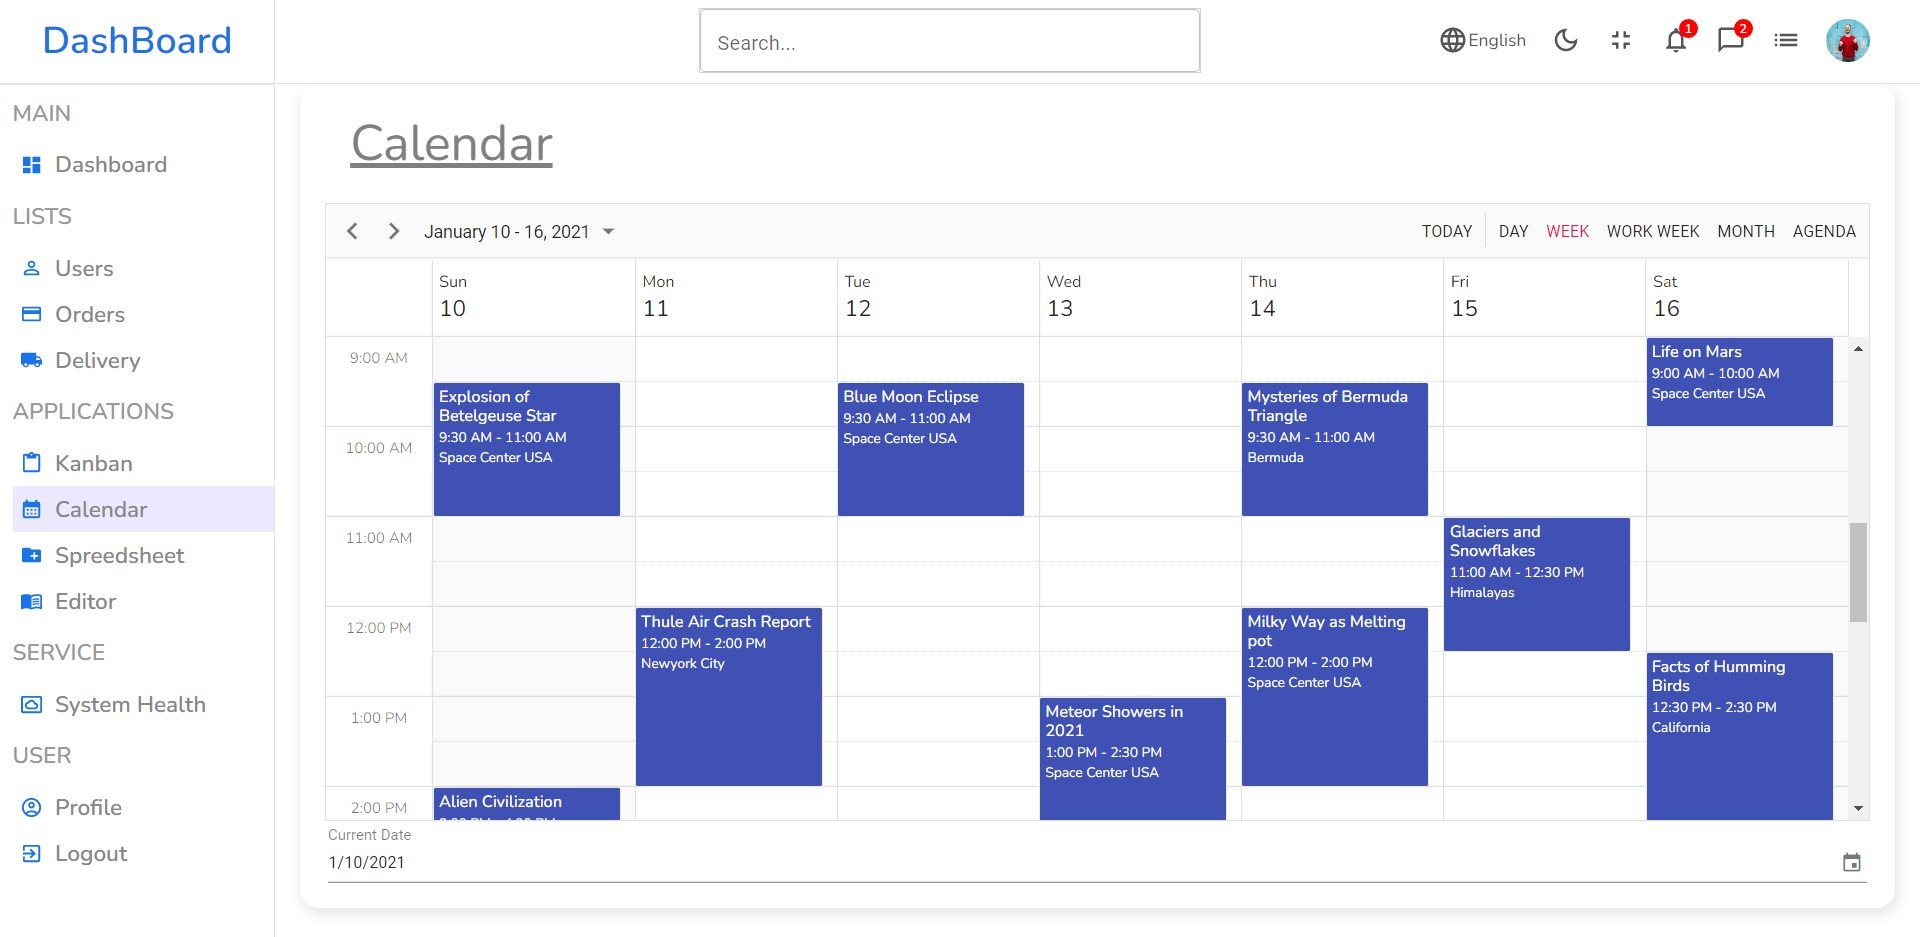
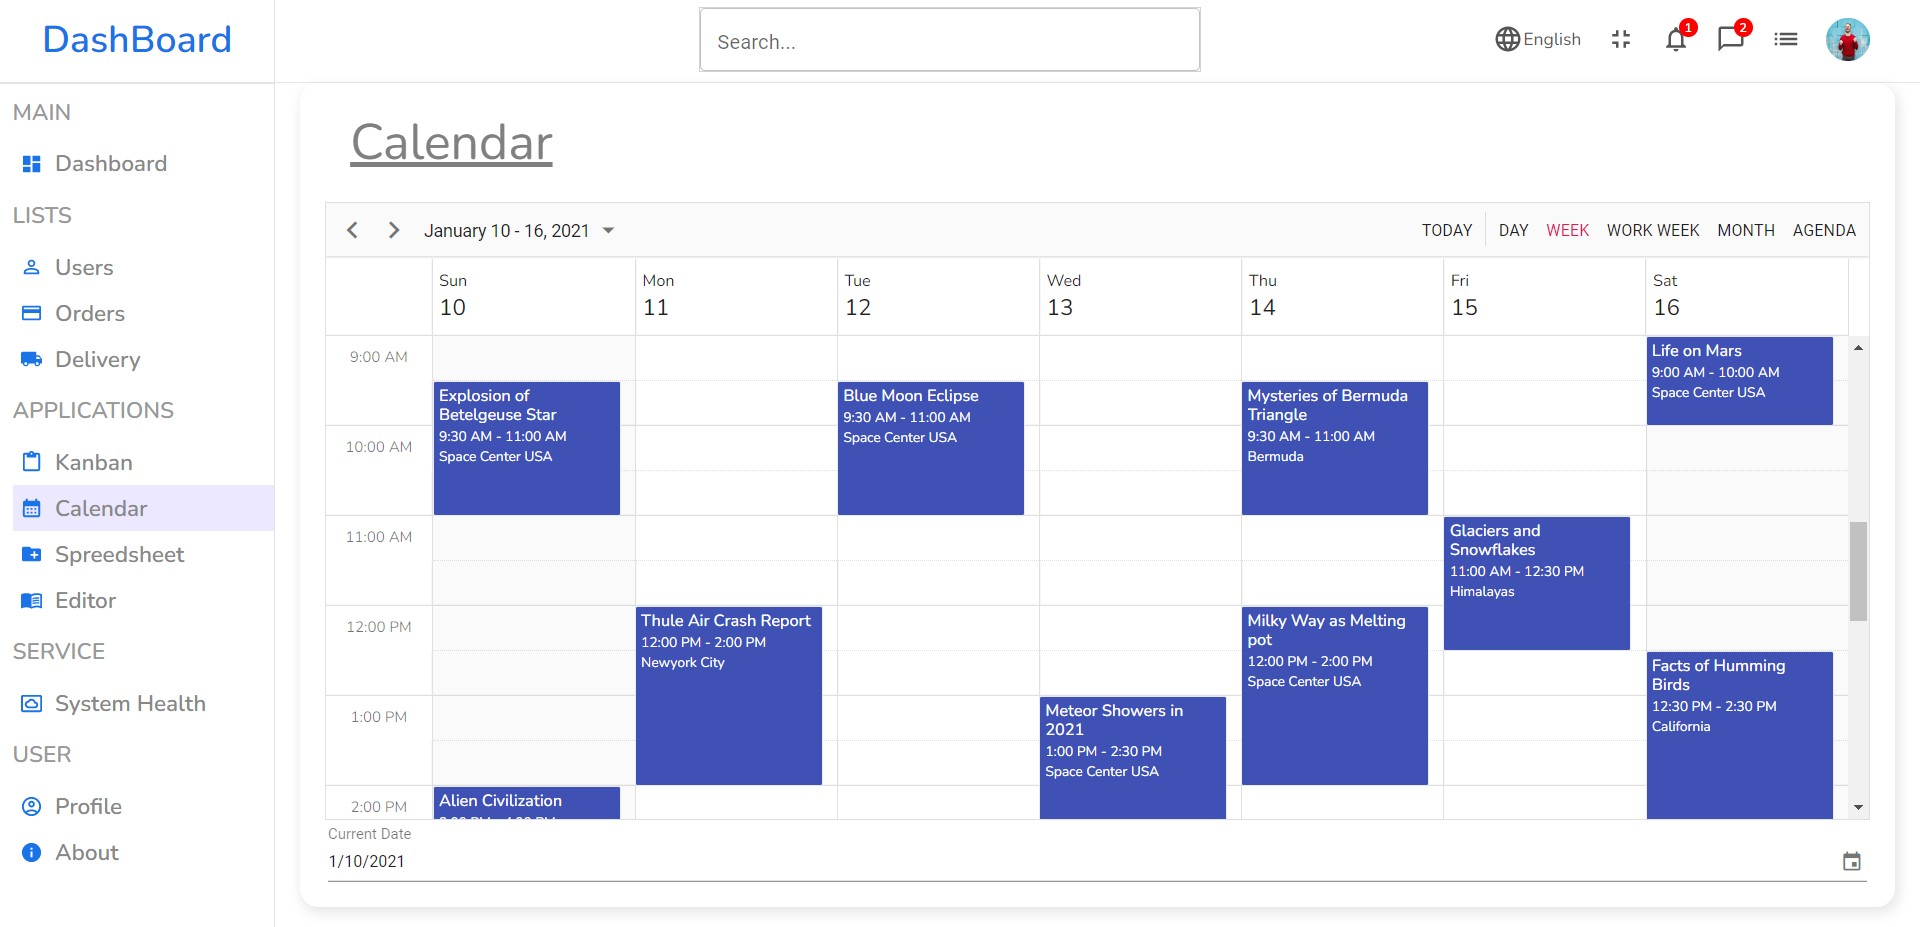
ENDGAME : Frontend

diff --git a/src/components/sidebar/Sidebar.jsx b/src/components/sidebar/Sidebar.jsx
@@ -1,97 +1,136 @@
-import { Link } from "react-router-dom";
+import { useState } from "react";
+import { Link, useLocation } from "react-router-dom";
 import DashboardIcon from "@mui/icons-material/Dashboard";
 import PersonOutlineIcon from "@mui/icons-material/PersonOutline";
 import LocalShippingIcon from "@mui/icons-material/LocalShipping";
 import CreditCardIcon from "@mui/icons-material/CreditCard";
-import ExitToAppIcon from "@mui/icons-material/ExitToApp";
+import InfoIcon from '@mui/icons-material/Info';
 import SettingsSystemDaydreamOutlinedIcon from "@mui/icons-material/SettingsSystemDaydreamOutlined";
 import AccountCircleOutlinedIcon from "@mui/icons-material/AccountCircleOutlined";
 import ContentPasteIcon from '@mui/icons-material/ContentPaste';
 import CalendarMonthIcon from '@mui/icons-material/CalendarMonth';
 import CreateNewFolderIcon from '@mui/icons-material/CreateNewFolder';
 import MenuBookIcon from '@mui/icons-material/MenuBook';
+import Box from '@mui/material/Box';
+import Typography from '@mui/material/Typography';
+import Modal from '@mui/material/Modal';
 
 import './sidebar.css'
 
+const style = {
+  position: 'absolute',
+  top: '50%',
+  left: '50%',
+  transform: 'translate(-50%, -50%)',
+  width: 400,
+  bgcolor: 'background.paper',
+  boxShadow: '2px 4px 10px 1px rgba(201, 201, 201, 0.47)',
+  borderRadius: '15px',
+  p: 4,
+};
+
 function Sidebar() {
+  const location = useLocation();
+
+  const [open, setOpen] = useState(false);
+  const handleOpen = () => setOpen(true);
+  const handleClose = () => setOpen(false);
+
   return (
     <div className='sidebar'>
       <div className="top">
-        <span className="logo">
-          DashBoard
-        </span>
+        <Link to="/" style={{ textDecoration: "none" }}>
+          <span className="logo">
+            DashBoard
+          </span>
+        </Link>
       </div>
       <hr />
       <div className="center">
         <ul>
           <p className="title">MAIN</p>
           <Link to="/" style={{ textDecoration: "none" }}>
-            <li>
+            <li className={location.pathname === "/" ? "current-selected" : ""}>
               <DashboardIcon className="icon" />
               <span>Dashboard</span>
             </li>
           </Link>
           <p className="title">LISTS</p>
           <Link to="/users" style={{ textDecoration: "none" }}>
-            <li>
+            <li className={location.pathname === "/users" ? "current-selected" : ""}>
               <PersonOutlineIcon className="icon" />
               <span>Users</span>
             </li>
           </Link>
           <Link to="/orders" style={{ textDecoration: "none" }}>
-            <li>
+            <li className={location.pathname === "/orders" ? "current-selected" : ""}>
               <CreditCardIcon className="icon" />
               <span>Orders</span>
             </li>
           </Link>
           <Link to="/delivery" style={{ textDecoration: "none" }}>
-            <li>
+            <li className={location.pathname === "/delivery" ? "current-selected" : ""}>
               <LocalShippingIcon className="icon" />
               <span>Delivery</span>
             </li>
           </Link>
           <p className="title">APPLICATIONS</p>
           <Link to="/kanban" style={{ textDecoration: "none" }}>
-            <li>
+            <li className={location.pathname === "/kanban" ? "current-selected" : ""}>
               <ContentPasteIcon className="icon" />
               <span>Kanban</span>
             </li>
           </Link>
           <Link to="/calendar" style={{ textDecoration: "none" }}>
-            <li>
+            <li className={location.pathname === "/calendar" ? "current-selected" : ""}>
               <CalendarMonthIcon className="icon" />
               <span>Calendar</span>
             </li>
           </Link>
           <Link to="/sheet" style={{ textDecoration: "none" }}>
-            <li>
+            <li className={location.pathname === "/sheet" ? "current-selected" : ""}>
               <CreateNewFolderIcon className="icon" />
               <span>Spreedsheet</span>
             </li>
           </Link>
           <Link to="/editor" style={{ textDecoration: "none" }}>
-            <li>
+            <li className={location.pathname === "/editor" ? "current-selected" : ""}>
               <MenuBookIcon className="icon" />
               <span>Editor</span>
             </li>
           </Link>
           <p className="title">SERVICE</p>
           <Link to="/health" style={{ textDecoration: "none" }}>
-            <li>
+            <li className={location.pathname === "/health" ? "current-selected" : ""}>
               <SettingsSystemDaydreamOutlinedIcon className="icon" />
               <span>System Health</span>
             </li>
           </Link>
           <Link to="/profile" style={{ textDecoration: "none" }}>
             <p className="title">USER</p>
-            <li>
+            <li className={location.pathname === "/profile" ? "current-selected" : ""}>
               <AccountCircleOutlinedIcon className="icon" />
               <span>Profile</span>
             </li>
           </Link>
-          <li>
-            <ExitToAppIcon className="icon" />
-            <span>Logout</span>
+          <Modal
+            open={open}
+            onClose={handleClose}
+            aria-labelledby="modal-modal-title"
+            aria-describedby="modal-modal-description"
+          >
+            <Box sx={style}>
+              <Typography id="modal-modal-title" variant="h4" component="h2" style={{ color: 'rgb(26, 115, 232)', textDecoration: 'underline' }}>
+                DashBoard
+              </Typography>
+              <Typography id="modal-modal-description" sx={{ mt: 2 }}>
+                Dashboard is an information management tool used to track KPIs , metrics, and key data points that are relevant to your business, department, or a specific process.
+              </Typography>
+            </Box>
+          </Modal>
+          <li onClick={handleOpen} >
+            <InfoIcon className="icon" />
+            <span>About</span>
           </li>
         </ul>
       </div>

diff --git a/src/components/chart/BarChart.jsx b/src/components/chart/BarChart.jsx
@@ -1,50 +1,44 @@
-import { BarChart, Bar, XAxis, YAxis, CartesianGrid, Tooltip, Legend, ResponsiveContainer} from 'recharts';
+import { BarChart, Bar, YAxis, CartesianGrid, Tooltip, Legend, ResponsiveContainer} from 'recharts';
 import "./chart.css"
 
 const data = [
   {
-    name: 'Page A',
-    uv: 4000,
-    pv: 2400,
+    CP: 4000,
+    SP: 2400,
     amt: 2400,
   },
   {
-    name: 'Page B',
-    uv: 3000,
-    pv: 1398,
+    CP: 3000,
+    SP: 1398,
     amt: 2210,
   },
   {
-    name: 'Page C',
-    uv: 2000,
-    pv: 9800,
+    CP: 2000,
+    SP: 9800,
     amt: 2290,
   },
   {
-    name: 'Page D',
-    uv: 2780,
-    pv: 3908,
+    CP: 2780,
+    SP: 3908,
     amt: 2000,
   },
   {
-    name: 'Page E',
-    uv: 1890,
-    pv: 4800,
+    CP: 1890,
+    SP: 4800,
     amt: 2181,
   },
   {
-    name: 'Page F',
-    uv: 2390,
-    pv: 3800,
+    CP: 2390,
+    SP: 3800,
     amt: 2500,
   },
   {
-    name: 'Page G',
-    uv: 3490,
-    pv: 4300,
+    CP: 3490,
+    SP: 4300,
     amt: 2100,
   },
 ];
+
 
 function CustomBarChart() {
   return (
@@ -65,12 +59,11 @@ function CustomBarChart() {
           }}
         >
           <CartesianGrid strokeDasharray="3 3" />
-          <XAxis dataKey="name" />
           <YAxis />
           <Tooltip />
           <Legend />
-          <Bar dataKey="pv" fill="#8884d8" />
-          <Bar dataKey="uv" fill="#82ca9d" />
+          <Bar dataKey="CP" fill="#8884d8" />
+          <Bar dataKey="SP" fill="#82ca9d" />
         </BarChart>
       </ResponsiveContainer>
     </div>

diff --git a/src/components/navbar/Navbar.jsx b/src/components/navbar/Navbar.jsx
@@ -1,6 +1,5 @@
 import { Link } from "react-router-dom";
 import LanguageOutlinedIcon from "@mui/icons-material/LanguageOutlined";
-import DarkModeOutlinedIcon from "@mui/icons-material/DarkModeOutlined";
 import FullscreenExitOutlinedIcon from "@mui/icons-material/FullscreenExitOutlined";
 import NotificationsNoneOutlinedIcon from "@mui/icons-material/NotificationsNoneOutlined";
 import ChatBubbleOutlineOutlinedIcon from "@mui/icons-material/ChatBubbleOutlineOutlined";
@@ -22,11 +21,6 @@ function Navbar(props) {
                     <div className="item">
                         <LanguageOutlinedIcon className="icon" />
                         English
-                    </div>
-                    <div className="item">
-                        <DarkModeOutlinedIcon
-                            className="icon"
-                        />
                     </div>
                     <div className="item">
                         <FullscreenExitOutlinedIcon onClick={props.handle.enter} className="icon" />

diff --git a/src/components/sidebar/sidebar.css b/src/components/sidebar/sidebar.css
@@ -69,3 +69,7 @@
     align-items: center;
     margin: 10px;
 }
+
+.current-selected {
+    background-color: #ece8ff;
+}
